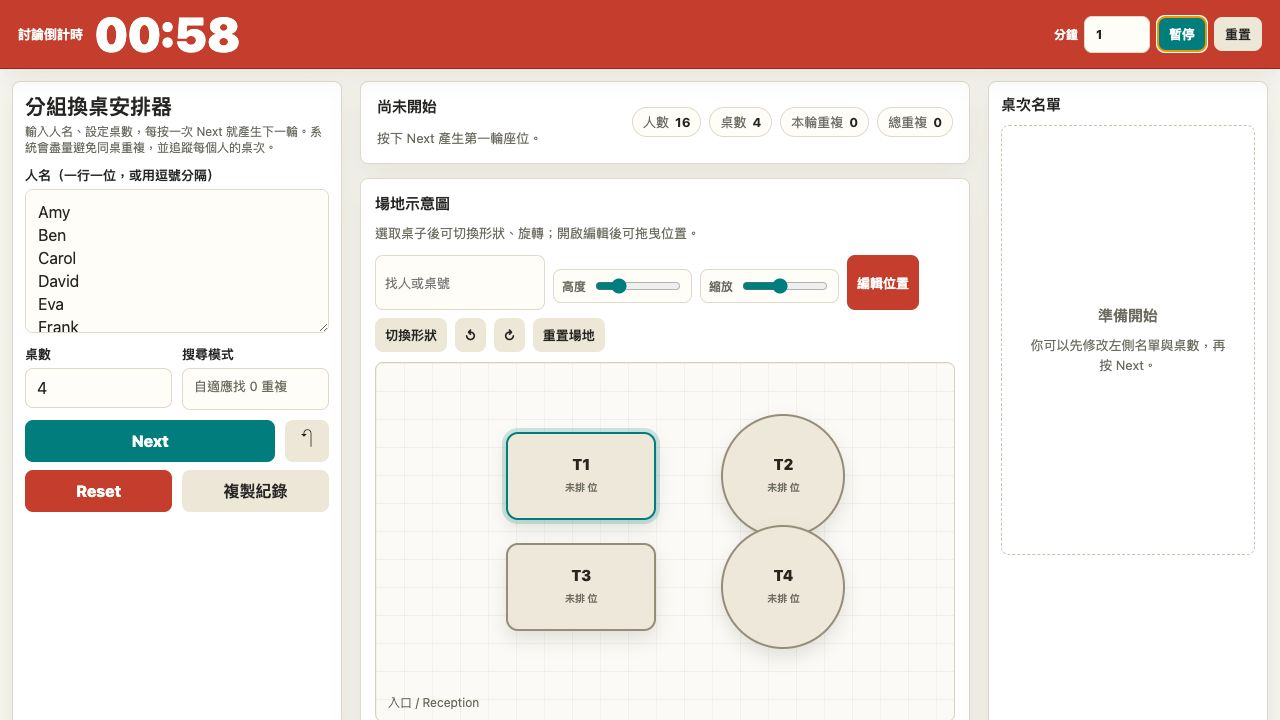
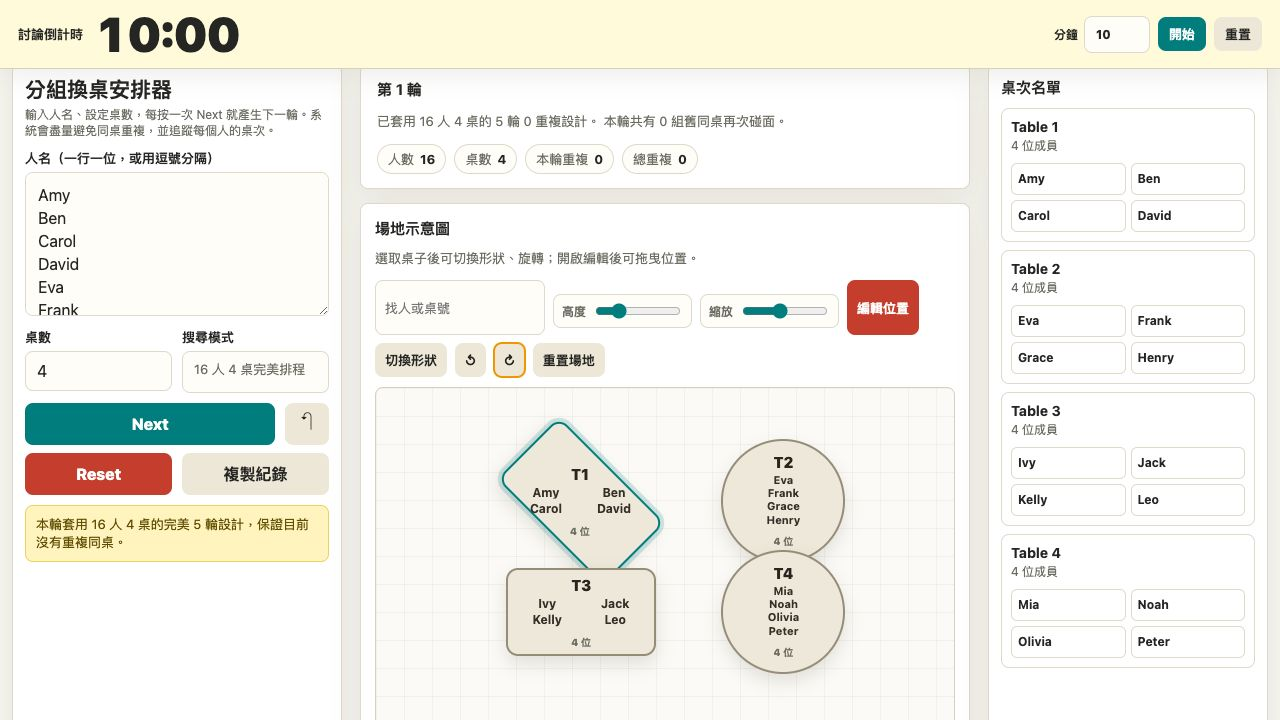
Keep table labels horizontal when rotating

diff --git a/index.html b/index.html
@@ -492,6 +492,7 @@
       display: grid;
       gap: 4px;
       justify-items: center;
+      transform-origin: center;
     }
 
     .map-names {
@@ -1119,6 +1120,10 @@ Peter</textarea>
       return `translate(-50%, -50%) rotate(${table.angle}deg) scale(${state.mapZoom})`;
     }
 
+    function tableContentTransform(table) {
+      return `rotate(${-table.angle}deg)`;
+    }
+
     function getMapNameFontSize(members, shape) {
       if (!members.length) return 10;
       const longest = Math.max(...members.map(name => Array.from(name).length));
@@ -1168,7 +1173,7 @@ Peter</textarea>
           style="left: ${table.x}%; top: ${table.y}%; transform: ${tableTransform(table)};"
           aria-label="Table ${table.id}"
         >
-          <div class="map-table-content">
+          <div class="map-table-content" style="transform: ${tableContentTransform(table)};">
             <strong>T${table.id}</strong>
             ${renderMapNames(table)}
             <span>${getTableMemberCount(table.id) || "未排"} 位</span>

diff --git a/table_arrangement.html b/table_arrangement.html
@@ -492,6 +492,7 @@
       display: grid;
       gap: 4px;
       justify-items: center;
+      transform-origin: center;
     }
 
     .map-names {
@@ -1119,6 +1120,10 @@ Peter</textarea>
       return `translate(-50%, -50%) rotate(${table.angle}deg) scale(${state.mapZoom})`;
     }
 
+    function tableContentTransform(table) {
+      return `rotate(${-table.angle}deg)`;
+    }
+
     function getMapNameFontSize(members, shape) {
       if (!members.length) return 10;
       const longest = Math.max(...members.map(name => Array.from(name).length));
@@ -1168,7 +1173,7 @@ Peter</textarea>
           style="left: ${table.x}%; top: ${table.y}%; transform: ${tableTransform(table)};"
           aria-label="Table ${table.id}"
         >
-          <div class="map-table-content">
+          <div class="map-table-content" style="transform: ${tableContentTransform(table)};">
             <strong>T${table.id}</strong>
             ${renderMapNames(table)}
             <span>${getTableMemberCount(table.id) || "未排"} 位</span>